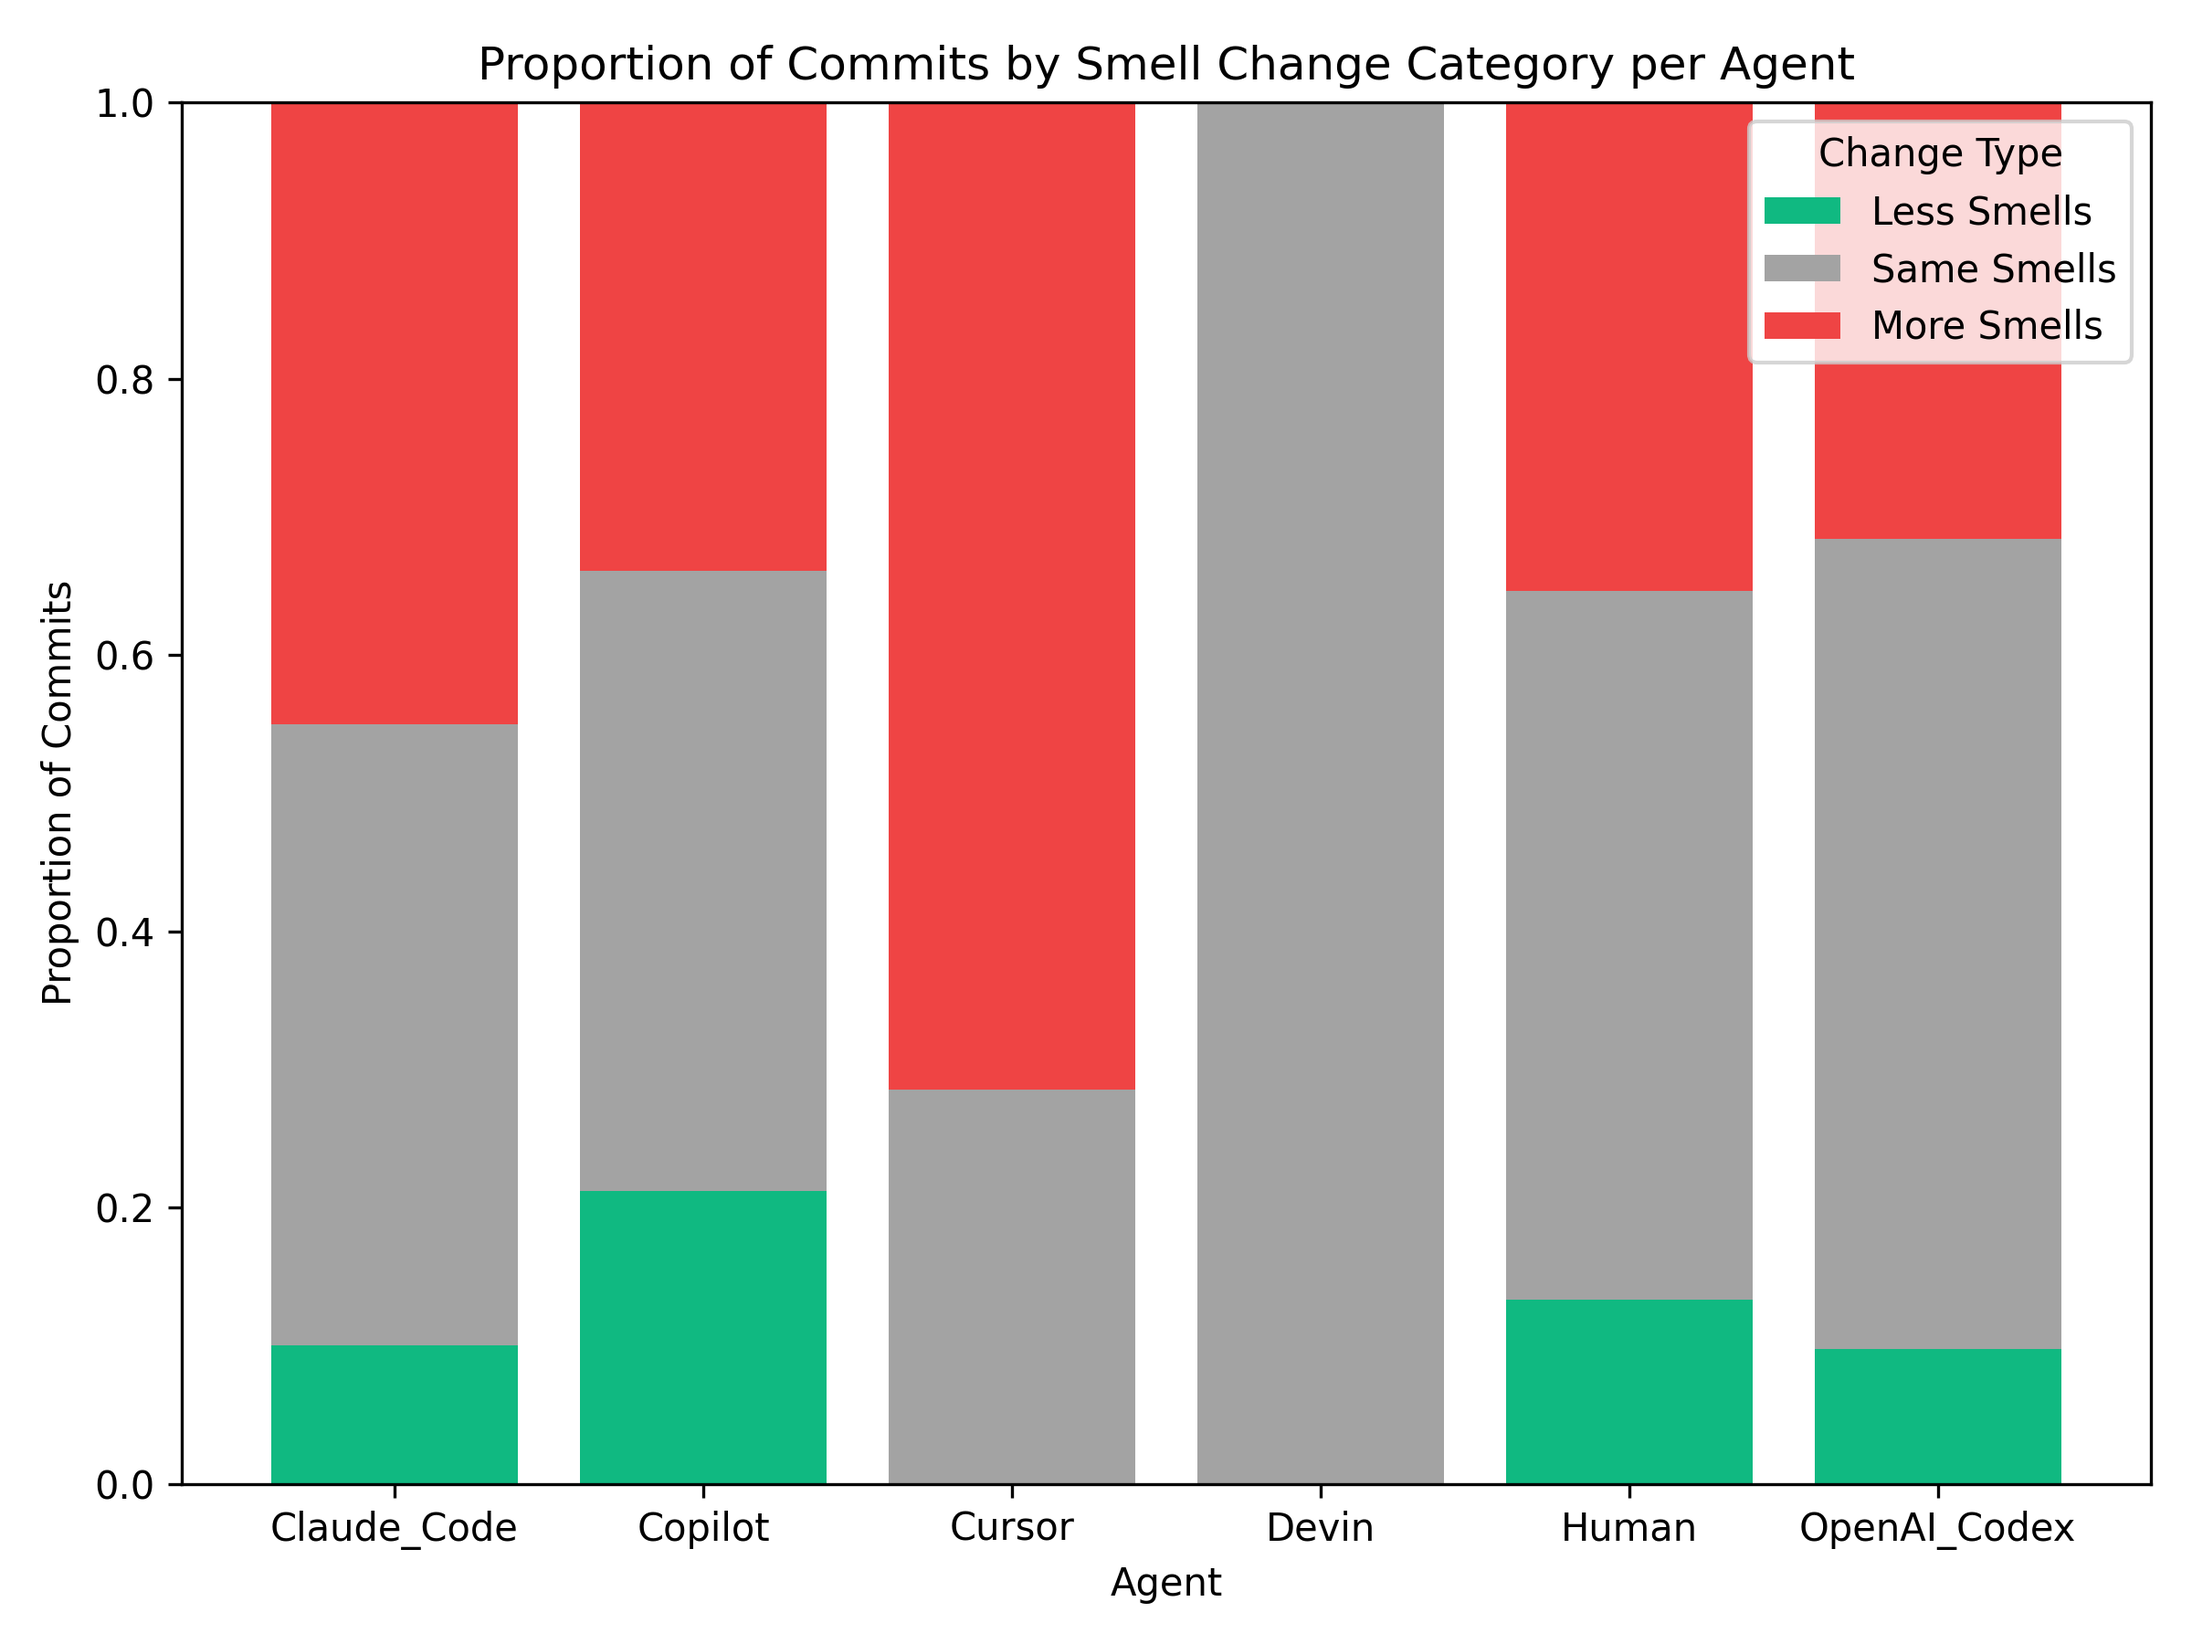
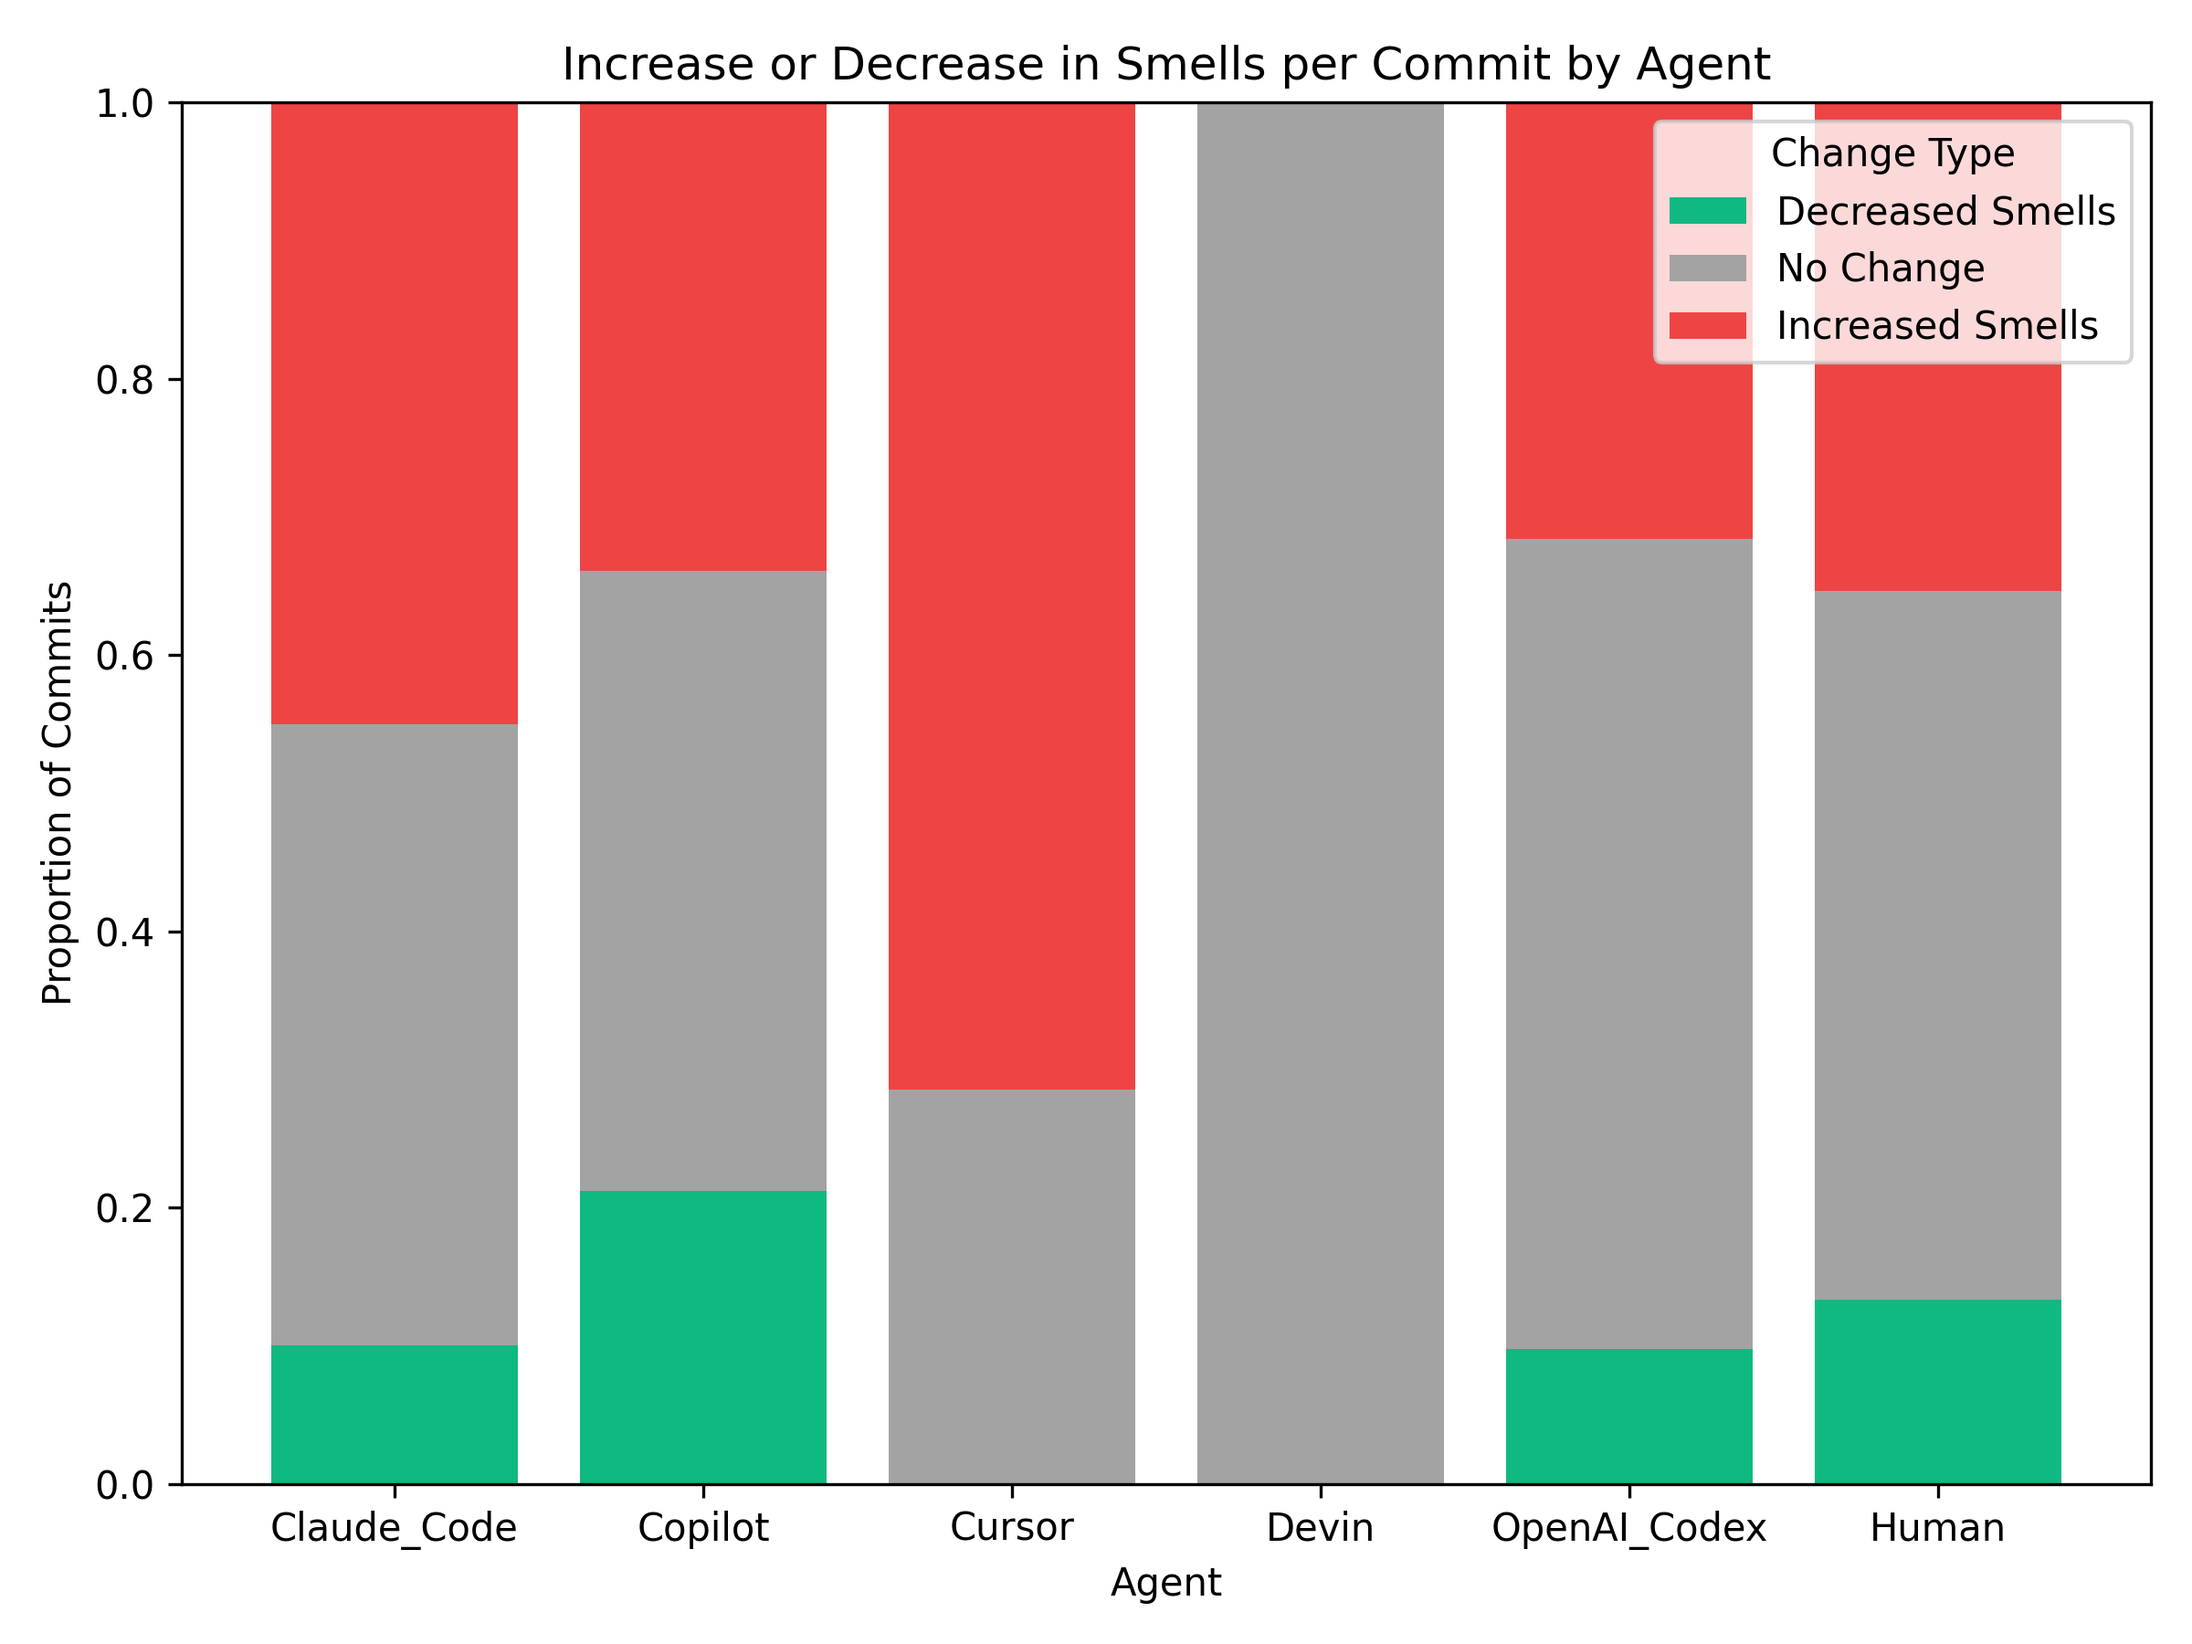
Updated table/graph generation

diff --git a/scripts/analysis_scripts/refactoring_per_commit.py b/scripts/analysis_scripts/refactoring_per_commit.py
@@ -66,6 +66,78 @@ print("\n📊 Per-Agent Refactoring Statistics:")
 print(stats.round(3).to_string())
 
 # ---------------------------------------------------------------
+# Per-agent aggregated tables for display (commit-level)
+# ---------------------------------------------------------------
+
+# Filter valid entries
+df_valid = df.copy()
+df_valid["refactoring_count"] = pd.to_numeric(df_valid["refactoring_count"], errors="coerce").fillna(0)
+df_valid["has_refactoring"] = df_valid["has_refactoring"].astype(bool)
+
+# 1⃣ Table A — Commit counts and refactoring rates
+table_commits = (
+    df_valid.groupby("agent", dropna=False)
+    .agg(
+        total_commits=("sha", "nunique"),
+        refactoring_commits=("has_refactoring", "sum"),
+        total_refactorings=("refactoring_count", "sum"),
+    )
+    .reset_index()
+)
+
+# Compute rate (%)
+table_commits["refactoring_rate_%"] = (
+    table_commits["refactoring_commits"] / table_commits["total_commits"] * 100
+)
+
+# Compute refactors per refactoring commit
+table_commits["mean_refactors_per_ref_commit"] = table_commits.apply(
+    lambda r: r["total_refactorings"] / r["refactoring_commits"] if r["refactoring_commits"] > 0 else 0,
+    axis=1
+)
+
+table_commits = table_commits.round(3)
+
+print("\n📋 Table 1 — Commit and Refactoring Rates per Agent:")
+print(table_commits.to_string(index=False))
+
+# Save
+table_commits.to_csv(TABLES_DIR / "per_agent_commit_and_refactoring_rate.csv", index=False)
+
+# ---------------------------------------------------------------
+# 2⃣ Table B — Refactors per Refactoring Commit stats (commit-level)
+# ---------------------------------------------------------------
+
+# Consider only commits that actually contain refactorings
+refactoring_commits = df_valid[df_valid["has_refactoring"]]
+
+# Compute per-agent stats
+table_refactors = (
+    refactoring_commits.groupby("agent", dropna=False)["refactoring_count"]
+    .agg(["mean", "median", "std", "min", "max", "count"])
+    .rename(columns={
+        "mean": "mean_refactors_per_ref_commit",
+        "median": "median_refactors_per_ref_commit",
+        "std": "std_refactors_per_ref_commit",
+        "min": "min_refactors_per_ref_commit",
+        "max": "max_refactors_per_ref_commit",
+        "count": "num_refactoring_commits"
+    })
+    .reset_index()
+)
+
+table_refactors = table_refactors.round(3)
+
+print("\n📊 Table 2 — Refactors per Refactoring Commit (Mean/Median/Std/Min/Max):")
+print(table_refactors.to_string(index=False))
+
+# Save
+table_refactors.to_csv(TABLES_DIR / "per_agent_refactors_per_ref_commit.csv", index=False)
+
+print("\n✅ Both tables generated and saved successfully (commit-level).")
+
+
+# ---------------------------------------------------------------
 # Create and save boxplots
 # ---------------------------------------------------------------
 agents = sorted(proj_summary["agent"].dropna().unique())

diff --git a/scripts/analysis_scripts/plot_smell_deltas.py b/scripts/analysis_scripts/plot_smell_deltas.py
@@ -60,14 +60,13 @@ plt.close()
 # ---------------------------------------------------------------
 # 3. Stacked barplot: rate of less/same/more smells per agent
 # ---------------------------------------------------------------
-# Categorize each commit
 def categorize(delta):
     if delta < 0:
-        return "Less Smells"
+        return "Decreased Smells"
     elif delta == 0:
-        return "Same Smells"
+        return "No Change"
     else:
-        return "More Smells"
+        return "Increased Smells"
 
 df["category"] = df["delta"].apply(categorize)
 
@@ -77,15 +76,20 @@ counts = (
     .size()
     .unstack(fill_value=0)
 )
-
 proportions = counts.div(counts.sum(axis=1), axis=0)
+
+# 🟢 Reorder agents so 'human' is last
+agents_order = [a for a in proportions.index if a.lower() != "human"] + [
+    a for a in proportions.index if a.lower() == "human"
+]
+proportions = proportions.loc[agents_order]
 
 # Plot stacked bar
 plt.figure(figsize=(8, 6))
 bottom = None
-colors = {"Less Smells": "#10B981", "Same Smells": "#A3A3A3", "More Smells": "#EF4444"}
+colors = {"Decreased Smells": "#10B981", "No Change": "#A3A3A3", "Increased Smells": "#EF4444"}
 
-for cat in ["Less Smells", "Same Smells", "More Smells"]:
+for cat in ["Decreased Smells", "No Change", "Increased Smells"]:
     plt.bar(
         proportions.index,
         proportions[cat],
@@ -95,12 +99,13 @@ for cat in ["Less Smells", "Same Smells", "More Smells"]:
     )
     bottom = proportions[cat] if bottom is None else bottom + proportions[cat]
 
-plt.title("Proportion of Commits by Smell Change Category per Agent")
+plt.title("Increase or Decrease in Smells per Commit by Agent")
 plt.ylabel("Proportion of Commits")
 plt.xlabel("Agent")
 plt.legend(title="Change Type")
 plt.tight_layout()
 plt.savefig(OUT_DIR / "smell_change_stacked_barplot.png", dpi=300)
 plt.close()
+
 
 print("✅ Saved plots to:", OUT_DIR)
